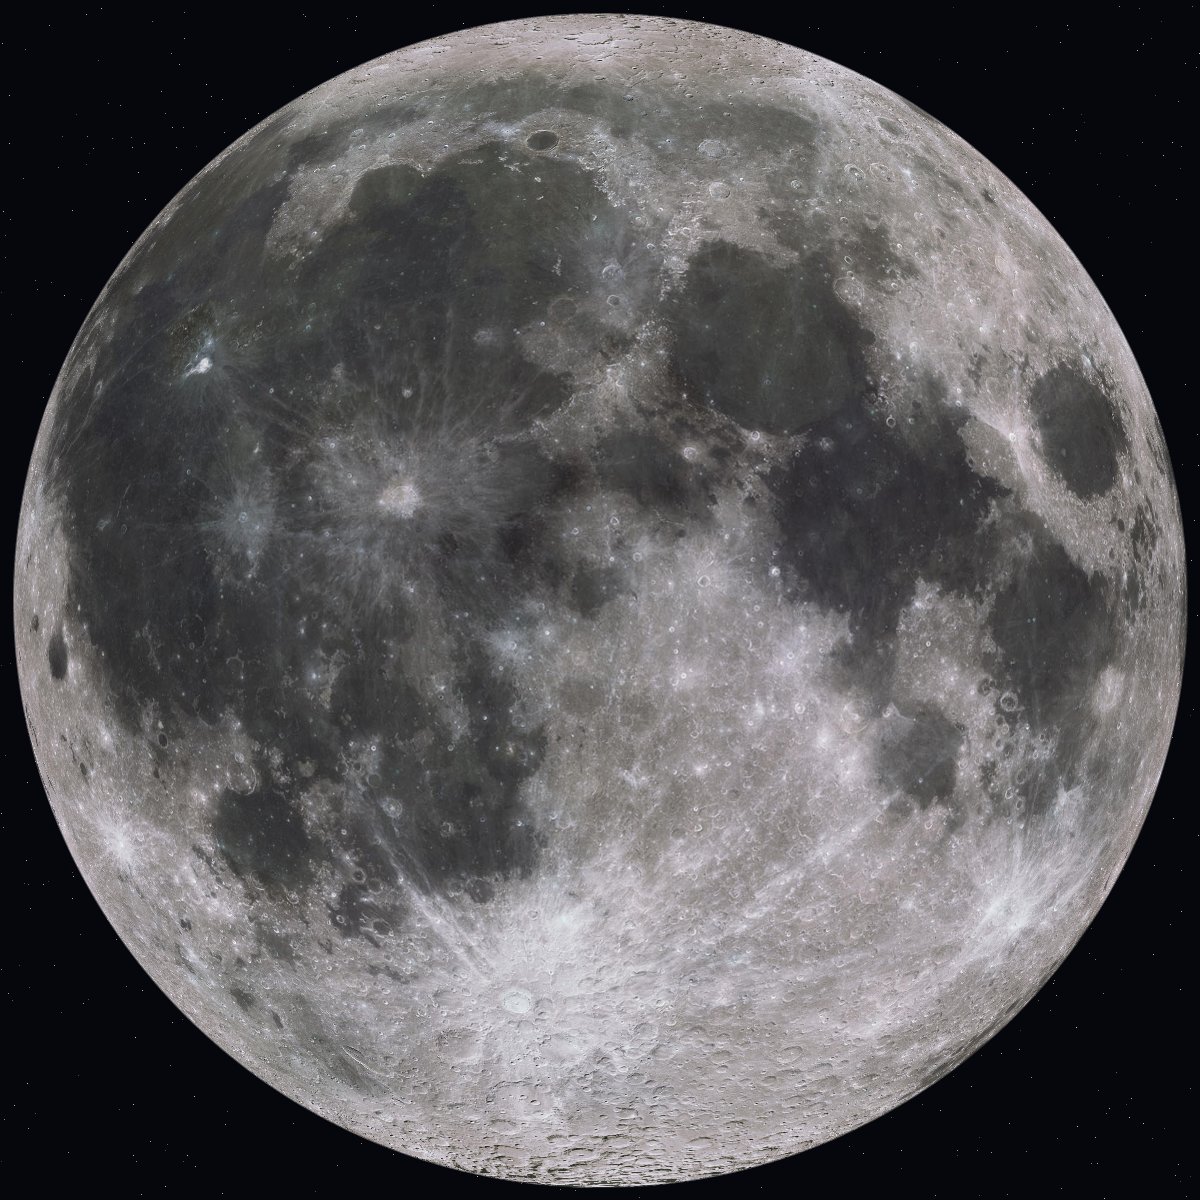
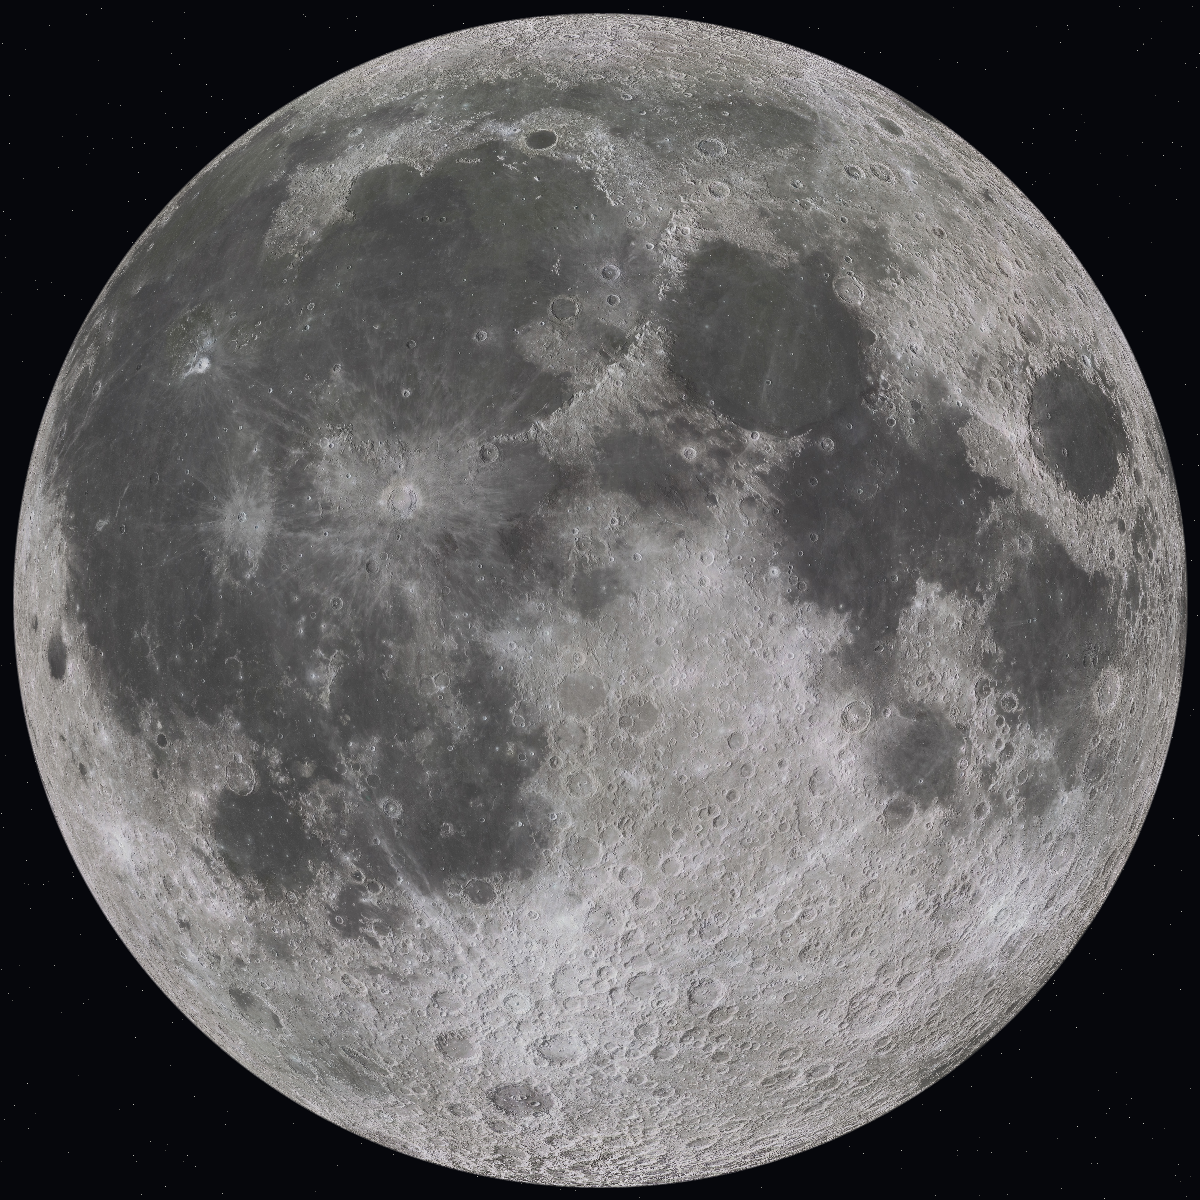
prototype: bump source to real 8K (1.34 km/px), larger zoom panels
User asked for higher-res zoom imagery. Two changes:

  1. Found a real-8K mirror of the LROC WAC mosaic at
     PacktPublishing/Extended-Reality-XR-...-Projects (8192x4096,
     ~15 MB). The previous file we called "moon_color_8k.jpg" was
     actually 4K (4096x2048, 2.7 km/px). New file is 1.34 km/px,
     2× better source detail.

     Cached as data/global_moon/moon_8k.jpg.

  2. multi_zoom.py + asset_bake.py both prefer the new 8K when
     present, fall back to legacy 4K. Output panel sizes bumped:
       orbital labelled / cellgrid:  1200 → 1600 px
       zoom progression panel:       560  → 900  px

Re-baked the game assets in src/assets/planet/ from the 8K source:
  orbital_near.png:  1.6 MB → 2.0 MB
  orbital_far.png:   1.8 MB → 2.4 MB
  wac_global.jpg:    1.7 MB → 14.3 MB

Outputs in output/zoom_*.png are now noticeably sharper at deep zoom
(Copernicus's central peak structure is visible at the site panel,
where before it was a blurred blob).

Cell-biome counts shifted slightly with the new source (different
brightness statistics): 59 mare / 137 highland / 80 polar / 124 mixed.

https://claude.ai/code/session_014xZZbBkCGkgHdGrMSpJjDx

Changed region(s): [[0.0, 0.0, 0.9867, 1.0]]

diff --git a/prototypes/planet_visuals/multi_zoom.py b/prototypes/planet_visuals/multi_zoom.py
@@ -38,7 +38,12 @@ PROTOTYPE_DIR = os.path.dirname(os.path.abspath(__file__))
 DATA_DIR = os.path.join(PROTOTYPE_DIR, "data", "global_moon")
 OUT = os.path.join(PROTOTYPE_DIR, "output")
 
-WAC_PATH = os.path.join(DATA_DIR, "moon_color_8k.jpg")
+# Use the higher-res 8K mirror when available — gives ~1.34 km/pixel
+# at equator vs ~2.7 km/pixel for the legacy moon_color_8k.jpg (which
+# was actually 4K despite the filename).
+WAC_PATH_8K = os.path.join(DATA_DIR, "moon_8k.jpg")
+WAC_PATH_4K = os.path.join(DATA_DIR, "moon_color_8k.jpg")
+WAC_PATH = WAC_PATH_8K if os.path.exists(WAC_PATH_8K) else WAC_PATH_4K
 
 
 # --- Lunar feature database ----------------------------------------------
@@ -110,7 +115,7 @@ def latlon_to_disc(lat_deg, lon_deg, output_size, margin=12,
 
 # --- Output 1: orbital with named features -------------------------------
 
-def render_orbital_labelled(output_path, output_size=1200):
+def render_orbital_labelled(output_path, output_size=1600):
     """Wrap the WAC mosaic onto a sphere and overlay named feature
     labels, color-coded by feature type."""
     wrap_to_sphere(WAC_PATH, output_size=output_size,
@@ -249,7 +254,7 @@ def real_biome_grid(wac_global, planet_grid=PLANET_GRID):
 
 # --- Output 2: orbital with cell grid overlay ----------------------------
 
-def render_orbital_cellgrid(output_path, output_size=1200):
+def render_orbital_cellgrid(output_path, output_size=1600):
     """Wrap moon + overlay 20x20 cell grid on top, each cell coloured
     by its real-data biome classification."""
     wrap_to_sphere(WAC_PATH, output_size=output_size,
@@ -373,7 +378,7 @@ def crop_equirect_region(wac_global, lat_centre, lon_centre,
     return img.resize((output_w, output_h), Image.LANCZOS)
 
 
-def render_zoom_progression(output_path, panel_w=560):
+def render_zoom_progression(output_path, panel_w=900):
     """Show the same area at four zoom levels. Pick a region with
     something interesting at every scale."""
     target_lat = 9.6   # Copernicus region — has Mare Imbrium nearby,

diff --git a/prototypes/planet_visuals/asset_bake.py b/prototypes/planet_visuals/asset_bake.py
@@ -56,27 +56,35 @@ def bake_orbital_disc(label, src_texture, camera_lon_deg, out_filename):
 def copy_global_mosaic():
     """Drop the full equirectangular WAC mosaic alongside the discs.
 
-    The C++ side will use this for runtime per-region rendering when we
-    zoom in past the orbital view (Phase E). 4K version is enough for
-    the visual fidelity target.
+    The C++ side uses this for runtime per-region rendering when we
+    zoom in past the orbital view (Phase E). Picks whichever cached
+    resolution is highest.
     """
-    src = os.path.join(PROTOTYPE_DATA, "moon_color_8k.jpg")
+    src_8k = os.path.join(PROTOTYPE_DATA, "moon_8k.jpg")
+    src_4k = os.path.join(PROTOTYPE_DATA, "moon_color_8k.jpg")
+    src = src_8k if os.path.exists(src_8k) else src_4k
     dst = os.path.join(GAME_ASSETS, "wac_global.jpg")
     if not os.path.exists(src):
         print(f"  [skip] WAC global not cached at {src}")
         return
     shutil.copy(src, dst)
     sz = os.path.getsize(dst)
-    print(f"  copied wac_global.jpg ({sz / 1024 / 1024:.1f} MB)")
+    print(f"  copied wac_global.jpg from {os.path.basename(src)} "
+          f"({sz / 1024 / 1024:.1f} MB)")
 
 
 def main():
     ensure_dest()
-    src_texture = os.path.join(PROTOTYPE_DATA, "moon_color_8k.jpg")
+    # Prefer the higher-res 8K source (1.34 km/pixel) when present;
+    # fall back to the legacy 4K-but-mislabeled-as-8k texture.
+    src_8k = os.path.join(PROTOTYPE_DATA, "moon_8k.jpg")
+    src_4k = os.path.join(PROTOTYPE_DATA, "moon_color_8k.jpg")
+    src_texture = src_8k if os.path.exists(src_8k) else src_4k
     if not os.path.exists(src_texture):
         raise SystemExit(
             f"missing source texture: {src_texture}\n"
             f"run wrap_to_sphere.py first or check data/global_moon/")
+    print(f"  source: {os.path.basename(src_texture)}")
 
     print("== bake orbital discs ==")
     bake_orbital_disc("near", src_texture,   0.0, "orbital_near.png")
